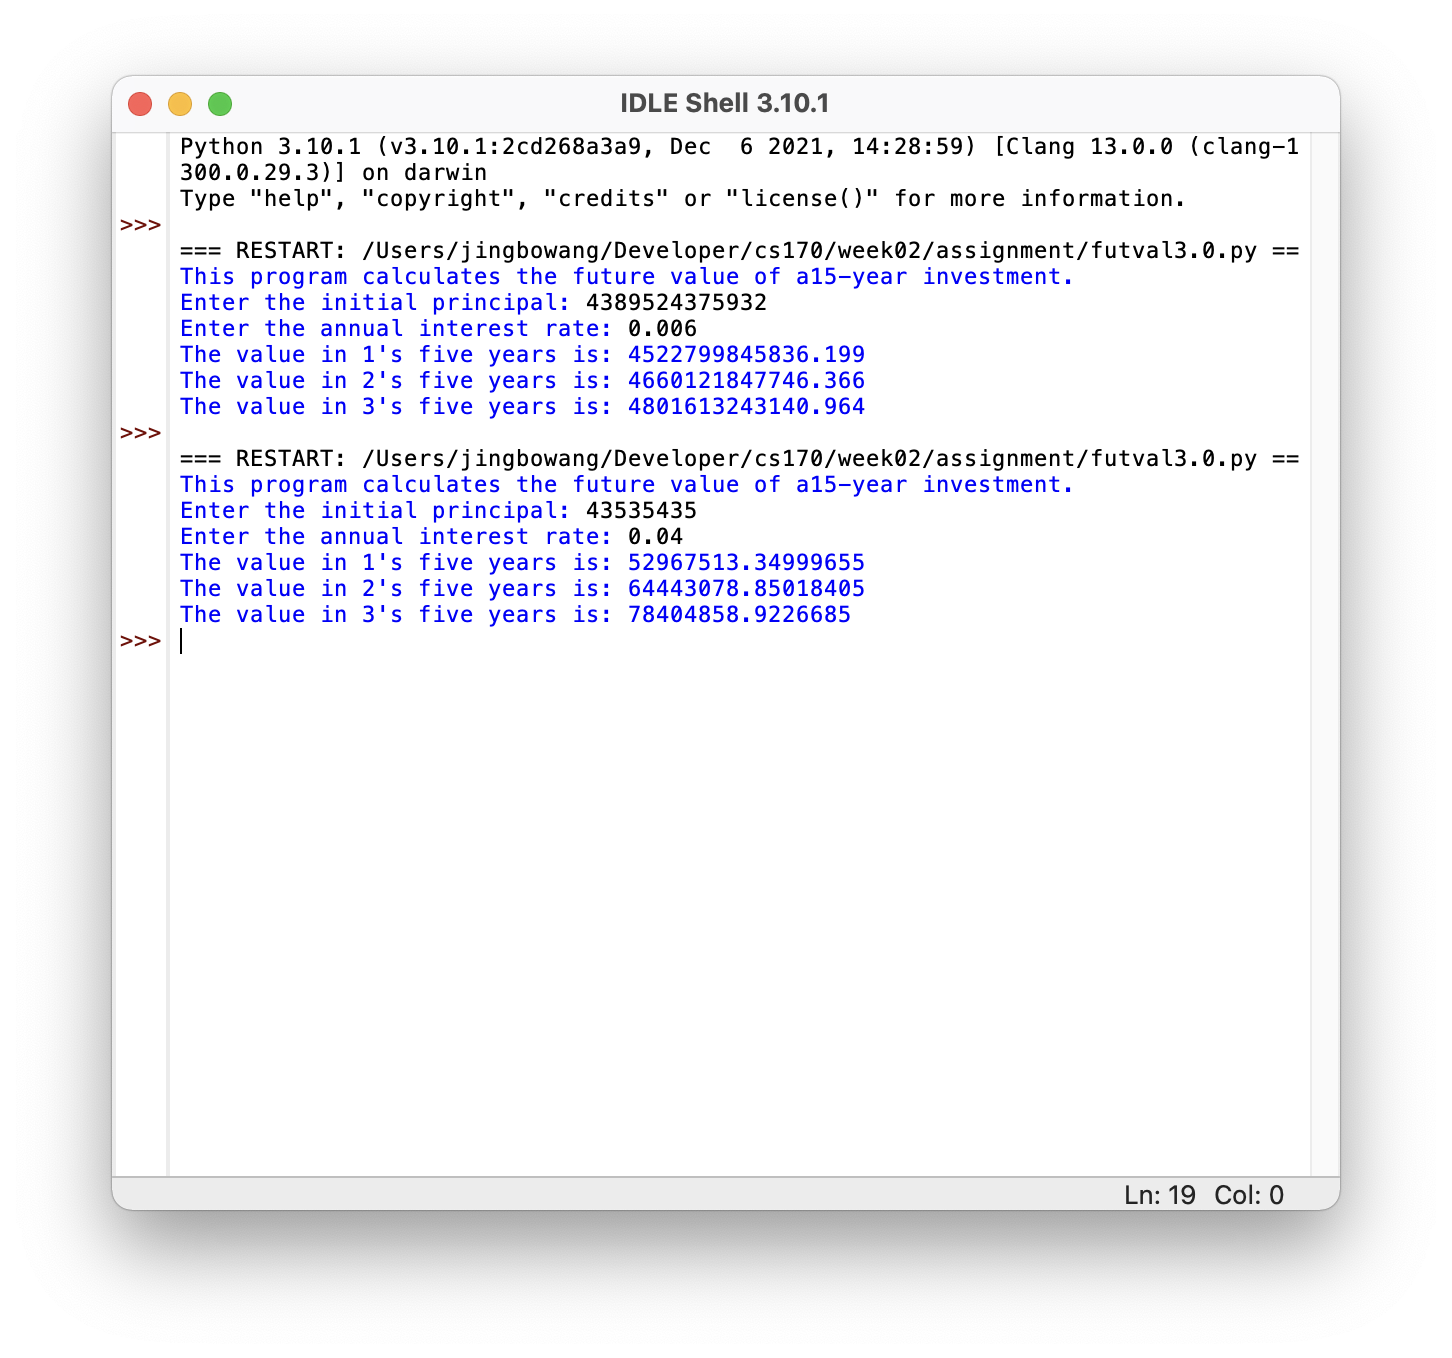
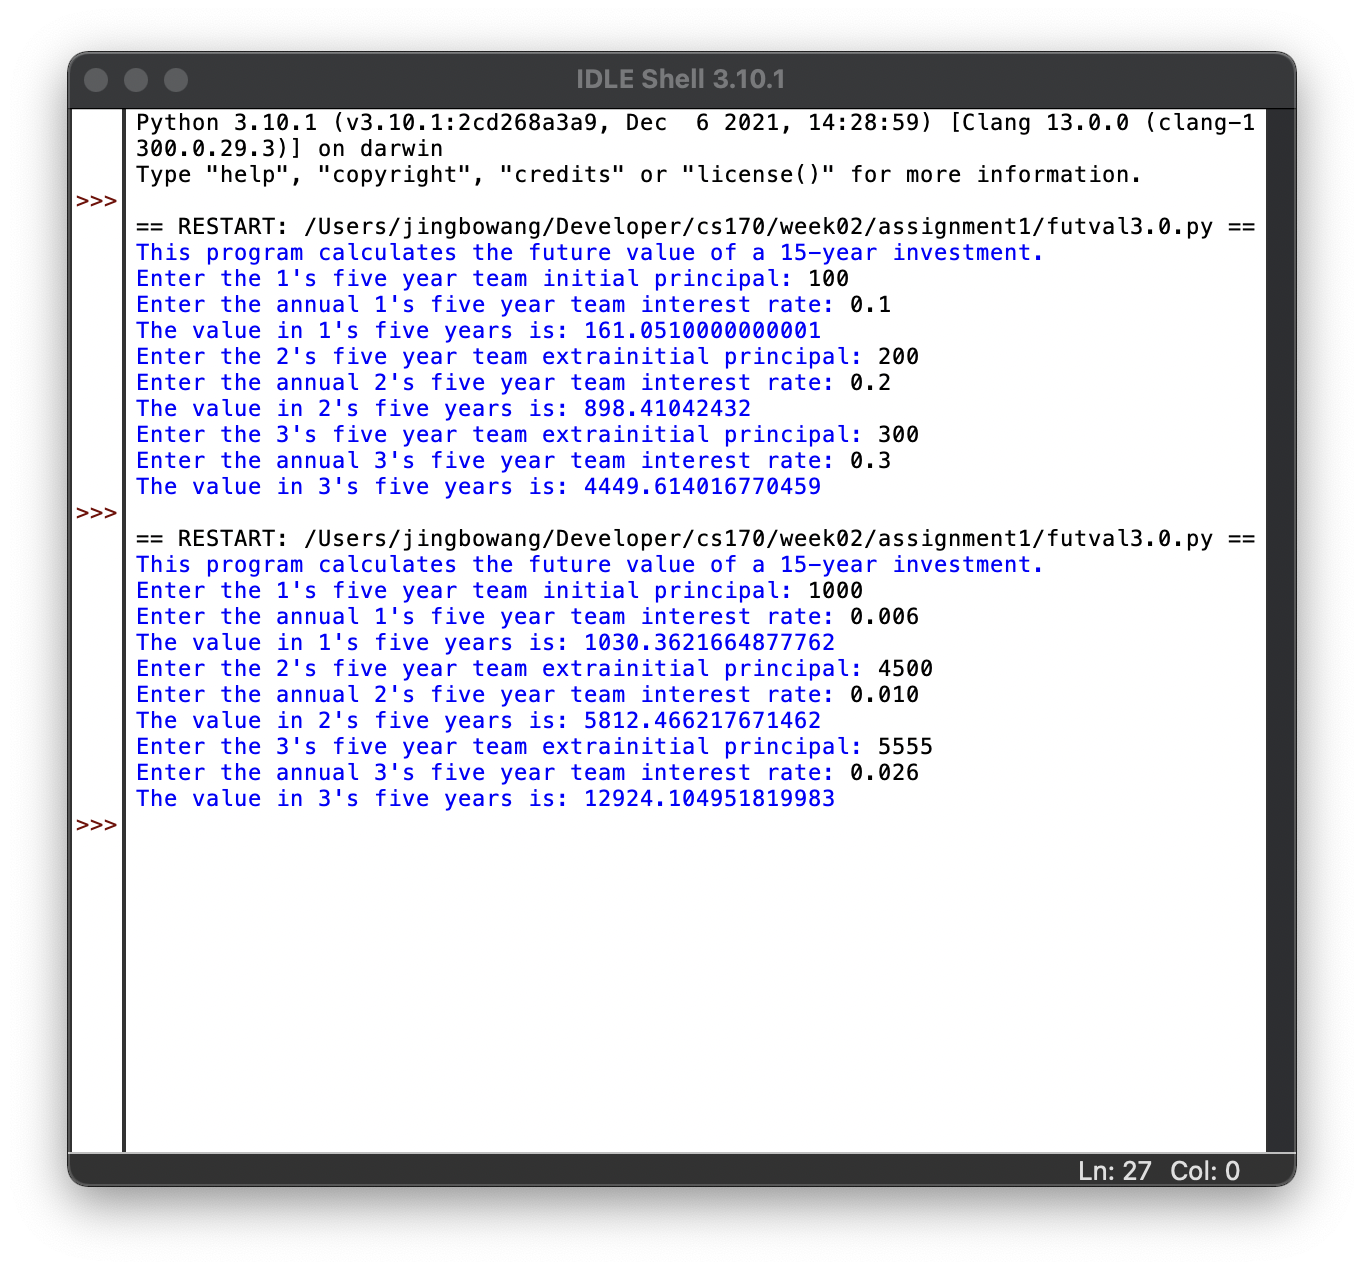
128

Changed region(s): [[0.0308, 0.0307, 0.9853, 0.9827], [0.8314, 0.3378, 0.8622, 0.3685]]

diff --git a/week02/assignment1/futval3.0.py b/week02/assignment1/futval3.0.py
@@ -3,16 +3,28 @@
 #    carried 10 years into the future
 
 def main():
-    print("This program calculates the future value of a"
+    print("This program calculates the future value of a "
            +"15-year investment.")
+    # get the first year 
+    principal = eval(input("Enter the 1's five year team initial principal: "))
+    apr = eval(input("Enter the annual 1's five year team interest rate: "))
 
-    principal = eval(input("Enter the initial principal: "))
-    apr = eval(input("Enter the annual interest rate: "))
+    # calculate the principal for each 5 year team
+    for i in range(1,4,1):
 
-    for i in range(3):
+        # calculate 5 years principal
         for j in range(5):
-            principal = principal * (1 + apr)
-        print ("The value in " + str(i+1) + "'s five years is:", principal)
+            principal = principal * (1 + apr)
+            
+        print ("The value in " + str(i) + "'s five years is:", principal)
 
+        # only get input of three times of 5 year terms 
+        if i < 3:
+            extra_principal = eval(input("Enter the " + str(i + 1)
+                                         + "'s five year team extra"
+                                         + "initial principal: "))
+            apr = eval(input("Enter the annual " + str(i + 1)
+                             + "'s five year team interest rate: "))
+            principal = extra_principal + principal
 main()
 

diff --git a/week03/convert3.0.py b/week03/convert3.0.py
@@ -1,0 +1,28 @@
+# Jingbo
+# A program to convert Celsius temps to Fahrenheit
+# from 0 to 100 every 10 temps
+
+def main():
+    print("This program to convert Celsius temps to Fahrenheit",
+          "from 0 to 100 every 10 temps")
+    print()
+
+    # print out table name
+    print("       " + "Celsius temps" + "        " + "Fahrenheit")
+    print("---------------------------------------")
+
+    for i in range(0,101,10):
+
+        # celsius is the value of i in the range
+        celsius = i
+
+        # traslate the Celsius temperature
+        # into Fahrenheit temperature
+        fahrenheit = (9/5) * celsius + 32
+        print("           " + str(celsius)
+              + "                  " 
+              + str(fahrenheit))
+
+
+main()
+        

diff --git a/week03/change.py b/week03/change.py
@@ -6,10 +6,14 @@ def main():
     print("Change Counter")
     print()
     print("Please enter the count of each coin type.")
+
+    # input the value of quarters, dimes, nickels pennies
     quarters = int(input("Quarters: "))
     dimes = int(input("Dimes: "))
     nickels = int(input("Nickels: "))
     pennies = int(input("Pennies: "))
+
+    # calculate the total valuue
     total = quarters * .25 + dimes * .10 + nickels * .05 + pennies * .01
     print()
     print("The total value of your change is", total)

diff --git a/week03/factorial.py b/week03/factorial.py
@@ -4,9 +4,12 @@
 #    Illustrates for loop with an accumulator
 
 def main():
+    # input a number which needs to factor
     n = eval(input("Please enter a whole number: "))
     fact = 1
-    for factor in range(n,1,-1): 
+    
+    for factor in range(n,1,-1):
+       # calculate n!
        fact = fact * factor
     print("The factorial of", n, "is", fact)
 

diff --git a/week03/futval.py b/week03/futval.py
@@ -10,6 +10,7 @@ def main():
     apr = eval(input("Enter the annual interest rate: "))
 
     for i in range(10):
+        # calculate the principal
         principal = principal * (1 + apr)
 
     print ("The value in 10 years is:", principal)

diff --git a/week03/running_product2.py b/week03/running_product2.py
@@ -1,5 +1,5 @@
 # running product 2
-# desc
+# this program is to calculate the n**k
 # Jingbo Wang
 
 def running_product2():
